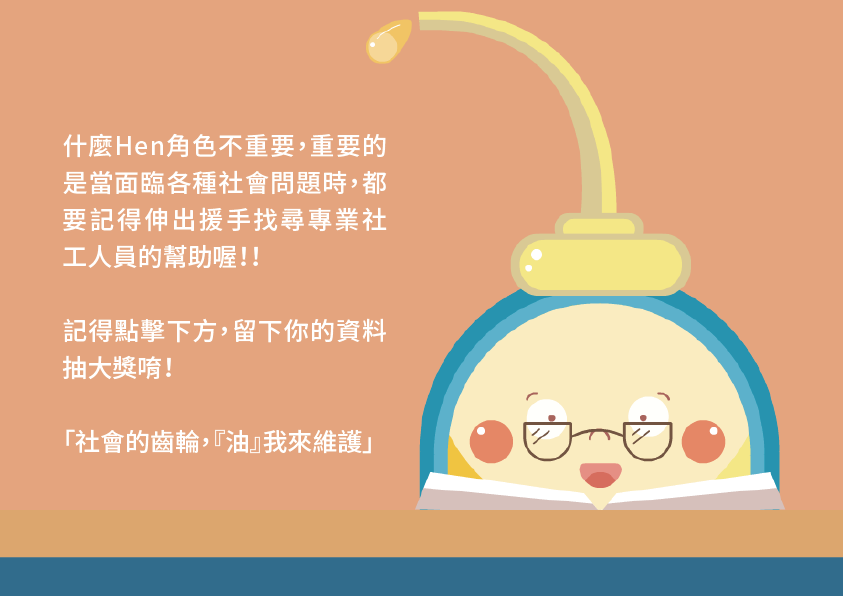
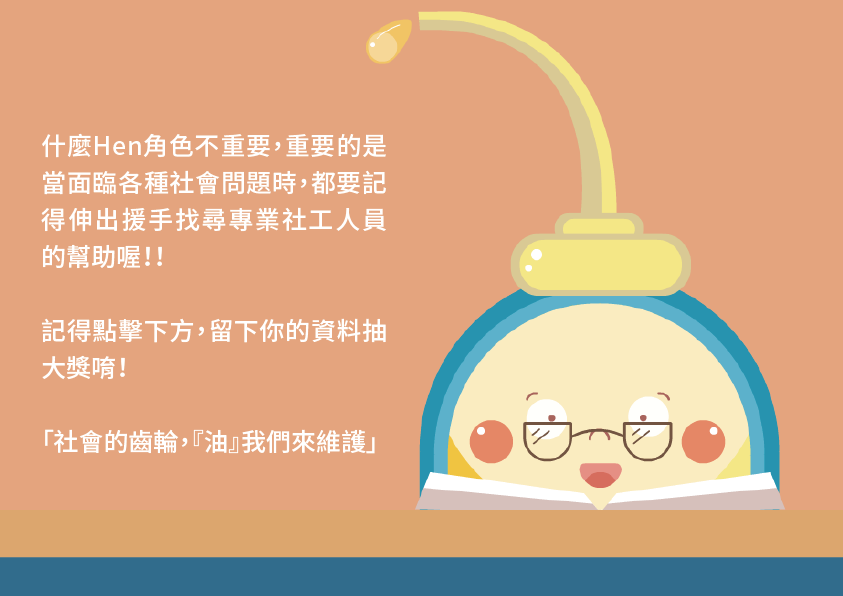
ttws
ttws

Changed region(s): [[0.0308, 0.2114, 0.4626, 0.453], [0.0308, 0.5134, 0.4626, 0.6342], [0.0617, 0.7248, 0.4626, 0.7852]]

diff --git a/game3.html b/game3.html
@@ -37,23 +37,23 @@
       </div>
       <div class="row">
         <div class="col-md-12">
-          <h1 class="">
+          <h3 class="">
             <br>Q：如果你是這位家庭暴力相對人的朋友，你想伸出哪隻手？
             <br>
-            <br> </h1>
+            <br> </h3>
         </div>
       </div>
       <div class="row bg-primary">
         <div class="col-md-4 bg-dark">
-          <a href="https://ed4nxq287puawzcpxzptog-on.drv.tw/www/game4.html">
+          <a href="https://funideas.github.io/ttsw/game4.html">
             <img class="img-fluid d-block mx-auto" src="pic/3-07.png"> </a>
         </div>
         <div class="col-md-4 bg-dark">
-          <a href="https://ed4nxq287puawzcpxzptog-on.drv.tw/www/game4.html" class="bg-dark">
+          <a href="https://funideas.github.io/ttsw/game4.html" class="bg-dark">
             <img class="img-fluid d-block mx-auto" src="pic/3-08.png"> </a>
         </div>
         <div class="col-md-4 bg-dark">
-          <a href="https://ed4nxq287puawzcpxzptog-on.drv.tw/www/game4.html">
+          <a href="https://funideas.github.io/ttsw/game4.html">
             <img class="img-fluid d-block m-3 mx-auto" src="pic/3-09.png"> </a>
         </div>
       </div>

diff --git a/game2.html b/game2.html
@@ -41,23 +41,23 @@
       <div class="row">
         <div class="col-md-12">
           <h1 class=""> </h1>
-          <h1 class="text-light">
+          <h3 class="text-light">
             <br>Q：如果你是這位受遺棄的小孩親戚，你想伸出哪隻手？
             <br>
-            <br> </h1>
+            <br> </h3>
         </div>
       </div>
       <div class="row">
         <div class="col-md-4">
-          <a href="https://ed4nxq287puawzcpxzptog-on.drv.tw/www/game3.html">
+          <a href="https://funideas.github.io/ttsw/game3.html">
             <img class="img-fluid d-block mx-auto" src="pic/2-08.png"> </a>
         </div>
         <div class="col-md-4">
-          <a href="https://ed4nxq287puawzcpxzptog-on.drv.tw/www/game3.html">
+          <a href="https://funideas.github.io/ttsw/game3.html">
             <img class="img-fluid d-block mx-auto" src="pic/2-09.png"> </a>
         </div>
         <div class="col-md-4">
-          <a href="https://ed4nxq287puawzcpxzptog-on.drv.tw/www/game3.html">
+          <a href="https://funideas.github.io/ttsw/game3.html">
             <img class="img-fluid d-block m-4 mx-auto" src="pic/2-10.png"> </a>
         </div>
       </div>

diff --git a/game1.html b/game1.html
@@ -40,23 +40,23 @@
       </div>
       <div class="row">
         <div class="col-md-12">
-          <h1 class="text-white">
+          <h3 class="text-white">
             <br>Q：如果你是這位女孩的朋友，你想伸出哪隻手？
             <br>
-            <br> </h1>
+            <br> </h3>
         </div>
       </div>
       <div class="row">
         <div class="col-md-4">
-          <a href="https://ed4nxq287puawzcpxzptog-on.drv.tw/www/game2.html">
+          <a href="https://funideas.github.io/ttsw/game2.html">
             <img class="img-fluid d-block mx-auto" src="pic/1-08.png"> </a>
         </div>
         <div class="col-md-4">
-          <a href="https://ed4nxq287puawzcpxzptog-on.drv.tw/www/game2.html">
+          <a href="https://funideas.github.io/ttsw/game2.html">
             <img class="img-fluid d-block mx-auto" src="pic/1-09.png"> </a>
         </div>
         <div class="col-md-4">
-          <a href="https://ed4nxq287puawzcpxzptog-on.drv.tw/www/game2.html">
+          <a href="https://funideas.github.io/ttsw/game2.html">
             <img class="img-fluid d-block my-3 mx-auto" src="pic/1-10.png"> </a>
         </div>
       </div>

diff --git a/index.html b/index.html
@@ -113,10 +113,10 @@
           <h3 class="display-4"><b>測驗遊戲<br>社會中你是什麼Hen角色？！你想伸出哪隻手</b>
             <br>
             <br> </h3>
-          <a href="https://ed4nxq287puawzcpxzptog-on.drv.tw/www/game1.html">
+          <a href="https://funideas.github.io/ttsw/game1.html">
             <img class="img-fluid d-block mx-auto" src="pic/main button-10.png"> </a>
           <a href="#section-1" class="lead"> </a>
-          <a class="btn btn-light btn-lg m-3" href="https://ed4nxq287puawzcpxzptog-on.drv.tw/www/game1.html">ＧＯ</a>
+          <a class="btn btn-light btn-lg m-3" href="https://funideas.github.io/ttsw/game1.html">ＧＯ</a>
           <p class="lead text-white text-center">
             <br>TOP</p>
         </div>

diff --git a/game4.html b/game4.html
@@ -20,7 +20,7 @@
     <div class="container">
       <div class="row">
         <div class="col-md-12">
-          <a href="https://goo.gl/forms/Jj6A0pvB2CNcv7fx1" class="btn btn-outline-primary btn-lg btn-block m-2">社會的齒輪，『油』我維護</a>
+          <a href="https://goo.gl/forms/Jj6A0pvB2CNcv7fx1" class="btn btn-outline-primary btn-lg btn-block m-2">社會的齒輪，『油』我們來維護</a>
         </div>
       </div>
     </div>
